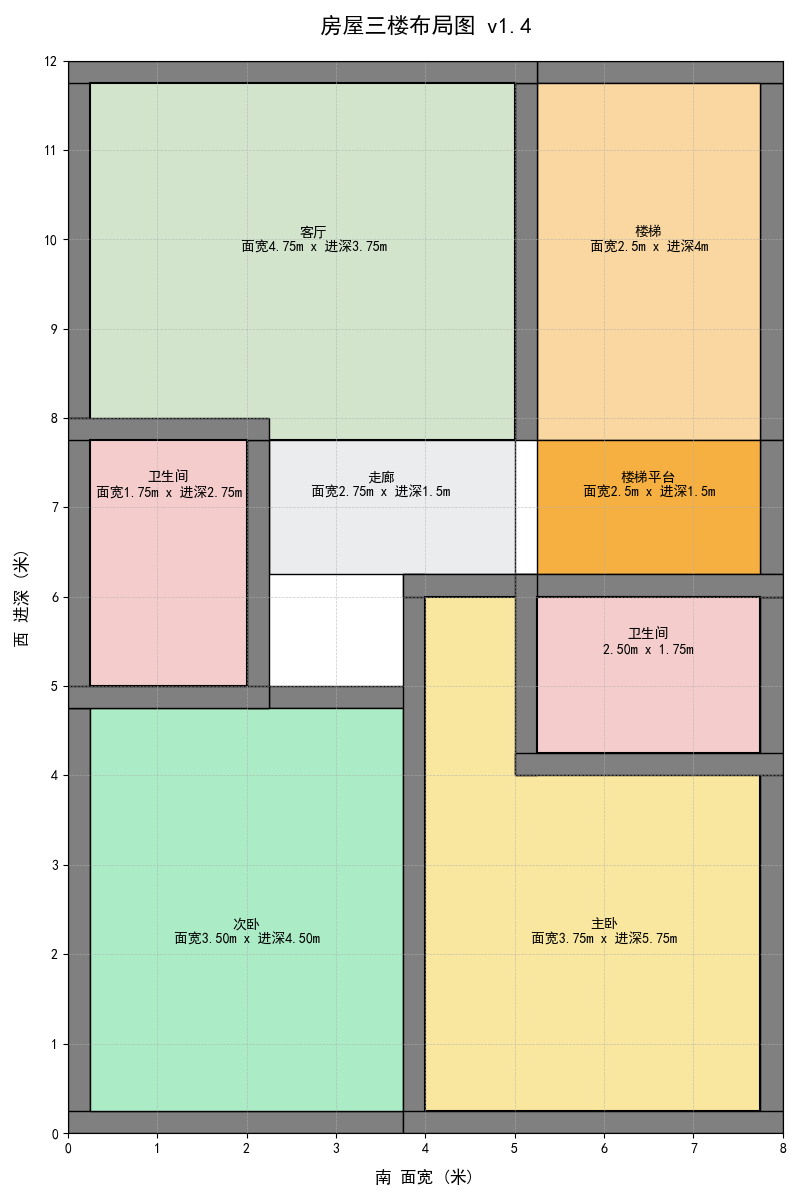
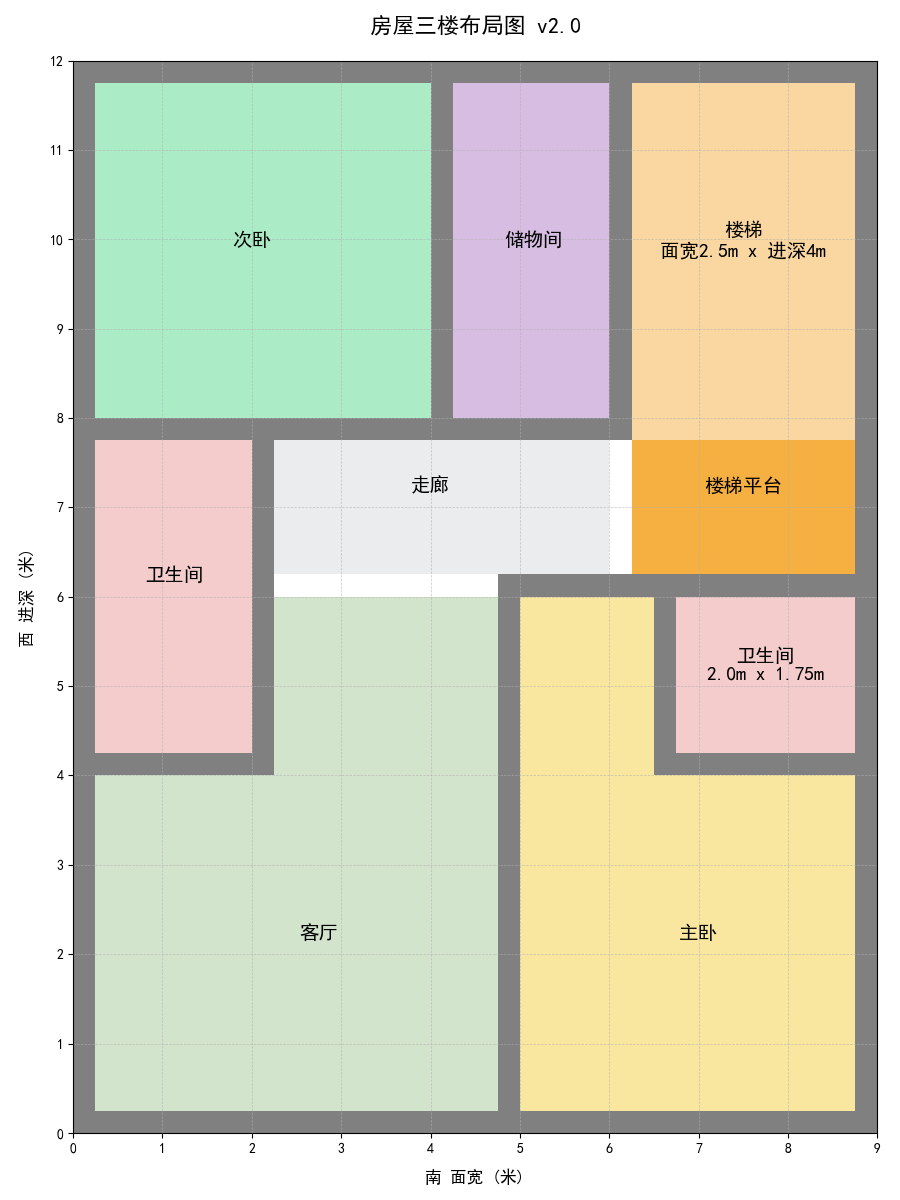
perf(floor): update

diff --git a/floor_3_5nd.py b/floor_3_5nd.py
@@ -18,100 +18,75 @@ plt.rcParams['font.sans-serif'] = ['SimHei']
 plt.rcParams['axes.unicode_minus'] = False
 
 # 创建画布
-fig, ax = plt.subplots(figsize=(8, 12))
-ax.set_xlim(0, 8)  # 面宽8米
+fig, ax = plt.subplots(figsize=(9, 12))
+ax.set_xlim(0, 9)  # 面宽9米
 ax.set_ylim(0, 12)  # 进深12米
 ax.set_aspect('equal')  # 确保比例一致
 
 # 手动设置x轴和y轴的刻度间隔为1米
-ax.set_xticks(range(0, 9))  # x轴从0到8，每隔1米一个刻度
-ax.set_yticks(range(0, 13))  # y轴从0到12，每隔1米一个刻度
+ax.set_xticks(range(0, 10))  # x轴每隔1米一个刻度
+ax.set_yticks(range(0, 13))  # y轴每隔1米一个刻度
 
 # 添加标题和网格
 plt.title(FLOOR_3_5_TITLE, fontsize=16, fontweight='bold', pad=20)
 plt.grid(visible=True, which='both', linestyle='--', linewidth=0.5, alpha=0.7)
 
-# 绘制各个功能区并调整文字位置
+# ------------------------------------- 绘制各个功能区并调整文字位置
 
 # 楼梯：位于右侧最里面的区域
-draw_wall(ax, 5.5 - wall_thickness, 8 - wall_thickness, 2.5 + wall_thickness, 4 + wall_thickness,
+draw_wall(ax, 6.5 - wall_thickness, 8 - wall_thickness, 2.5 + wall_thickness, 4 + wall_thickness,
           exclude=['left', 'bottom'], adjacent=['left', 'bottom'])
 ax.add_patch(
-    patches.Rectangle((5.5 - wall_thickness, 8 - wall_thickness), 2.5, 4,
-                      facecolor=colors['楼梯'], edgecolor='black', label='楼梯'))
-# 文字水平居中
-ax.text(6.5, 10, "楼梯\n面宽2.5m x 进深4m", ha='center', va='center', fontsize=10, color='black')
+    patches.Rectangle((6.5 - wall_thickness, 8 - wall_thickness), 2.5, 4,
+                      facecolor=colors['楼梯'], label='楼梯'))
+ax.text(7.5, 10, "楼梯\n面宽2.5m", ha='center', va='center', fontsize=14)
 
-# 储物间（左侧）
-draw_wall(ax, 0, 8, 3, 4, adjacent=['bottom', 'right'])
-ax.add_patch(patches.Rectangle((wall_thickness, 8), 3 - wall_thickness, 4 - wall_thickness,
-                               facecolor=colors['储物间'], edgecolor='black', label='储物间'))
-# 文字水平居中
-ax.text(1.5, 10, f"储物间\n面宽{3 - wall_thickness:.2f}m x 进深{4 - wall_thickness:.2f}m",
-        ha='center', va='center', fontsize=10)
+# 储物间（楼梯左侧）
+draw_wall(ax, 4, 8 - wall_thickness, 1.75 + 2 * wall_thickness, 3.75 + 2 * wall_thickness)  # 排除底部墙壁
+ax.add_patch(patches.Rectangle((4 + wall_thickness, 8), 1.75, 3.75, facecolor=colors['储物间']))
+ax.text(5.15, 10, f"储物间", ha='center', va='center', fontsize=14)
 
-# 储物间（中间）
-draw_wall(ax, 3, 8, 2.5 - wall_thickness, 4, adjacent=['bottom'])
-ax.add_patch(
-    patches.Rectangle((3 + wall_thickness, 8), 2.5 - 3 * wall_thickness, 4 - wall_thickness,
-                      facecolor=colors['储物间'], edgecolor='black', label='储物间'))
-# 文字水平居中
-ax.text(4.15, 10, f"储物间\n面宽{2.5 - 3 * wall_thickness:.2f}m x 进深{4 - wall_thickness:.2f}m",
-        ha='center', va='center', fontsize=10)
+# 次卧（储物间旁边）
+draw_wall(ax, 0, 8 - wall_thickness, 3.75 + 2 * wall_thickness, 3.75 + 2 * wall_thickness, exclude=['right'])  # 排除底部墙壁
+ax.add_patch(patches.Rectangle((wall_thickness, 8), 3.75, 3.75, facecolor=colors['储物间']))
+ax.text(2, 10, f"储物间", ha='center', va='center', fontsize=14)
 
 # 楼梯平台：宽2.5米，长1.5米
-draw_wall(ax, 5, 6, 3, 1.5 + wall_thickness * 2,
-          exclude=['top', 'left', 'bottom'], adjacent=['top', 'left'])
+draw_wall(ax, 6, 6, 3, 1.5 + wall_thickness * 2, exclude=['top', 'left', 'bottom'])
 ax.add_patch(
-    patches.Rectangle((5 + wall_thickness, 6 + wall_thickness), 3 - 2 * wall_thickness, 1.5,
-                      facecolor=colors['楼梯平台'], edgecolor='black', label='楼梯平台'))
-ax.text(6.5, 7.25, f"楼梯平台\n面宽{3 - 2 * wall_thickness}m x 进深1.5m", ha='center', va='center', fontsize=10)
+    patches.Rectangle((6 + wall_thickness, 6 + wall_thickness), 3 - 2 * wall_thickness, 1.5,
+                      facecolor=colors['楼梯平台'], label='楼梯平台'))
+ax.text(7.5, 7.25, f"楼梯平台", ha='center', va='center', fontsize=14)
 
-# 走廊：剩余部分
-draw_wall(ax, 2 - wall_thickness, 6.5 - 2 * wall_thickness, 3 + 2 * wall_thickness, 1.5 + 2 * wall_thickness,
-          exclude=['right', 'bottom'], adjacent=['right', 'bottom'])
-ax.add_patch(patches.Rectangle((2, 6.5 - wall_thickness), 3, 1.5,
-                               facecolor=colors['走廊'], edgecolor='black'))
-# 文字水平居中
-ax.text(3.5, 7.25, f"走廊\n面宽{3}m x 进深1.5m",
-        ha='center', va='center', fontsize=10, color='black')
-
-# 客厅卫生间：位于次卧上方
-draw_wall(ax, 0, 6, 2, 2)
-ax.add_patch(
-    patches.Rectangle((wall_thickness, 6 + wall_thickness), 2 - 2 * wall_thickness, 2 - 2 * wall_thickness,
-                      facecolor=colors['卫生间'], edgecolor='black', linewidth=1.5))
-ax.text(1, 7.25, f"卫生间\n面宽{1.5}m x 进深{1.5}m",
-        ha='center', va='center', fontsize=10, color='black', fontweight='bold')
-
-# 储物间（右下角）
-draw_wall(ax, 4 - wall_thickness, 4, 4 + wall_thickness, 2 + wall_thickness,
-          exclude=['top', 'left', 'bottom'], )  # 排除顶部墙壁
-draw_wall(ax, 4 - wall_thickness, 0, 4 + wall_thickness, 4 + wall_thickness)  # 排除顶部墙壁
-ax.add_patch(
-    patches.Rectangle((4, wall_thickness), 4 - wall_thickness, 4 - wall_thickness,
-                      facecolor=colors['储物间'], edgecolor='black', linewidth=1.5))
-ax.text(6, 3.25, f"储物间\n面宽{4 - wall_thickness:.2f}m x 进深{4 - wall_thickness:.2f}m",
-        ha='center', va='center', fontsize=10, color='black', fontweight='bold')
+# 其他走廊：剩余部分
+ax.add_patch(patches.Rectangle((2 + wall_thickness, 6.5 - wall_thickness), 3.75, 1.5,
+                               facecolor=colors['走廊']))
+ax.text(4, 7.25, f"走廊", ha='center', va='center', fontsize=14)
 
 # 阳台：位于最前面的区域
-draw_wall(ax, 0, 0, 4, 6.5 - wall_thickness)  # 排除底部墙壁（大门区域）
-ax.add_patch(
-    patches.Rectangle((wall_thickness, wall_thickness), 4 - 2 * wall_thickness, 6.5 - wall_thickness * 3,
-                      facecolor=colors['阳台'], edgecolor='black', label='阳台'))
-# 文字水平居中
-ax.text(2, 3.25, f"阳台\n面宽{4 - 2 * wall_thickness:.2f}m x 进深{6.5 - wall_thickness * 3:.2f}m",
-        ha='center', va='center', fontsize=10)
+draw_wall(ax, 0, 0, 4.75 + wall_thickness, 5.75 + 2 * wall_thickness, exclude=['top', 'right'])  # 排除顶部墙壁
+ax.add_patch(patches.Rectangle((wall_thickness, wall_thickness), 4.75, 5.75, facecolor=colors['阳台'], label='阳台'))
+ax.text(2.5, 3.5, f"阳台", ha='center', va='center', fontsize=14)
+
+draw_wall(ax, 2, 0, 1 + wall_thickness, 5.75 + 2 * wall_thickness, exclude=['left', 'right'])  # 排除顶部墙壁
+
+# 卫生间
+draw_wall(ax, 0, 6, 1.75 + 2 * wall_thickness, 1.5 + 2 * wall_thickness, adjacent=['right'])
+ax.add_patch(patches.Rectangle((wall_thickness, 6 + wall_thickness), 1.75, 1.5, facecolor=colors['卫生间']))
+ax.text(1.13, 7.25, f"卫生间", ha='center', va='center', fontsize=14)
+
+# 储物间（右下角）
+draw_wall(ax, 5 - wall_thickness, 0, 3.75 + 2 * wall_thickness, 3.75 + 2 * wall_thickness)  # 排除顶部墙壁
+ax.add_patch(patches.Rectangle((5, wall_thickness), 3.75, 3.75, facecolor=colors['储物间']))
+ax.text(7, 2.25, f"储物间", ha='center', va='center', fontsize=14)
+
+draw_wall(ax, 6, 4, 2.5 + 2 * wall_thickness, 1.75 + 2 * wall_thickness, exclude=['top', 'bottom', 'left'])
+draw_wall(ax, 5 - wall_thickness, 4, 1 + 2 * wall_thickness, 1.75 + 2 * wall_thickness,
+          exclude=['top', 'bottom', 'right'])
 
 # 显示坐标轴标签
 plt.xlabel("南 面宽 (米)", fontsize=12, labelpad=10)
 plt.ylabel("西 进深 (米)", fontsize=12, labelpad=10)
-
-# # 添加图例
-# handles, labels = [], []
-# for region, color in colors.items():
-#     handles.append(patches.Patch(color=color, label=region))
-# plt.legend(handles=handles, loc='upper left', bbox_to_anchor=(1.05, 1), fontsize=10)
 
 # 显示图形
 plt.tight_layout()

diff --git a/floor_2nd.py b/floor_2nd.py
@@ -18,81 +18,70 @@ plt.rcParams['font.sans-serif'] = ['SimHei']
 plt.rcParams['axes.unicode_minus'] = False
 
 # 创建画布
-fig, ax = plt.subplots(figsize=(8, 12))
-ax.set_xlim(0, 8)  # 面宽8米
+fig, ax = plt.subplots(figsize=(9, 12))
+ax.set_xlim(0, 9)  # 面宽9米
 ax.set_ylim(0, 12)  # 进深12米
 ax.set_aspect('equal')  # 确保比例一致
 
 # 手动设置x轴和y轴的刻度间隔为1米
-ax.set_xticks(range(0, 9))  # x轴从0到8，每隔1米一个刻度
-ax.set_yticks(range(0, 13))  # y轴从0到12，每隔1米一个刻度
+ax.set_xticks(range(0, 10))  # x轴每隔1米一个刻度
+ax.set_yticks(range(0, 13))  # y轴每隔1米一个刻度
 
 # 添加标题和网格
 plt.title(FLOOR_2_TITLE, fontsize=16, fontweight='bold', pad=20)
 plt.grid(visible=True, which='both', linestyle='--', linewidth=0.5, alpha=0.7)
 
-# 绘制各个功能区并调整文字位置
+# ------------------------------------- 绘制各个功能区并调整文字位置
 
 # 楼梯：位于右侧最里面的区域
-draw_wall(ax, 5.5 - wall_thickness, 8 - wall_thickness, 2.5 + wall_thickness, 4 + wall_thickness,
+draw_wall(ax, 6.5 - wall_thickness, 8 - wall_thickness, 2.5 + wall_thickness, 4 + wall_thickness,
           exclude=['left', 'bottom'], adjacent=['left', 'bottom'])
 ax.add_patch(
-    patches.Rectangle((5.5 - wall_thickness, 8 - wall_thickness), 2.5, 4,
-                      facecolor=colors['楼梯'], edgecolor='black', label='楼梯'))
-ax.text(6.5, 10, "楼梯\n面宽2.5m x 进深4m", ha='center', va='center', fontsize=10, color='black')
+    patches.Rectangle((6.5 - wall_thickness, 8 - wall_thickness), 2.5, 4,
+                      facecolor=colors['楼梯'], label='楼梯'))
+ax.text(7.5, 10, "楼梯\n面宽2.5m x 进深4m", ha='center', va='center', fontsize=14)
 
-# 客厅（楼梯左侧）
-draw_wall(ax, 0, 8 - wall_thickness, 5.5 - wall_thickness, 4 + wall_thickness, exclude=['bottom'])  # 排除底部墙壁
-ax.add_patch(patches.Rectangle((wall_thickness, 8 - wall_thickness), 5.5 - 3 * wall_thickness, 4,
-                               facecolor=colors['客厅'], edgecolor='black', linewidth=1.5))
-ax.text(2.75, 10, f"客厅\n面宽{5.5 - 3 * wall_thickness}m x 进深{4 - wall_thickness}m",
-        ha='center', va='center', fontsize=10, color='black', fontweight='bold')
+# 储物间（楼梯左侧）
+draw_wall(ax, 4, 8 - wall_thickness, 1.75 + 2 * wall_thickness, 3.75 + 2 * wall_thickness)  # 排除底部墙壁
+ax.add_patch(patches.Rectangle((4 + wall_thickness, 8), 1.75, 3.75, facecolor=colors['储物间']))
+ax.text(5.15, 10, f"储物间", ha='center', va='center', fontsize=14)
+
+# 次卧（储物间旁边）
+draw_wall(ax, 0, 8 - wall_thickness, 3.75 + 2 * wall_thickness, 3.75 + 2 * wall_thickness, exclude=['right'])  # 排除底部墙壁
+ax.add_patch(patches.Rectangle((wall_thickness, 8), 3.75, 3.75, facecolor=colors['次卧']))
+ax.text(2, 10, f"次卧", ha='center', va='center', fontsize=14)
 
 # 楼梯平台：宽2.5米，长1.5米
-draw_wall(ax, 5, 6, 3, 1.5 + wall_thickness * 2,
-          exclude=['top', 'left'], adjacent=['top', 'left'])
+draw_wall(ax, 6, 6, 3, 1.5 + wall_thickness * 2, exclude=['top', 'left'], adjacent=['top', 'left'])
 ax.add_patch(
-    patches.Rectangle((5 + wall_thickness, 6 + wall_thickness), 3 - 2 * wall_thickness, 1.5,
-                      facecolor=colors['楼梯平台'], edgecolor='black', label='楼梯平台'))
-ax.text(6.5, 7.25, f"楼梯平台\n面宽{3 - 2 * wall_thickness}m x 进深1.5m", ha='center', va='center', fontsize=10)
+    patches.Rectangle((6 + wall_thickness, 6 + wall_thickness), 3 - 2 * wall_thickness, 1.5,
+                      facecolor=colors['楼梯平台'], label='楼梯平台'))
+ax.text(7.5, 7.25, f"楼梯平台", ha='center', va='center', fontsize=14)
 
 # 其他走廊：剩余部分
-ax.add_patch(patches.Rectangle((2 + wall_thickness, 6.5 - wall_thickness), 2.75, 1.5,
-                               facecolor=colors['走廊'], edgecolor='black'))
-ax.text(3.5, 7.25, f"走廊\n面宽{2.75}m x 进深1.5m",
-        ha='center', va='center', fontsize=10, color='black')
+ax.add_patch(patches.Rectangle((2 + wall_thickness, 6.5 - wall_thickness), 3.75, 1.5,
+                               facecolor=colors['走廊']))
+ax.text(4, 7.25, f"走廊", ha='center', va='center', fontsize=14)
 
-# 次卧：位于最前面的区域
-draw_wall(ax, 0, 0, 4, 5, exclude=['right'])  # 排除顶部墙壁
-ax.add_patch(
-    patches.Rectangle((wall_thickness, wall_thickness), 4 - 2 * wall_thickness, 5 - 2 * wall_thickness,
-                      facecolor=colors['次卧'], edgecolor='black', label='客厅'))
-ax.text(2, 2.25, f"次卧\n面宽{4 - 2 * wall_thickness:.2f}m x 进深{5 - 2 * wall_thickness :.2f}m",
-        ha='center', va='center', fontsize=10, color='black', fontweight='bold')
+# 客厅：位于最前面的区域
+draw_wall(ax, 0, 0, 4.75 + wall_thickness, 5.75 + 2 * wall_thickness, exclude=['top', 'right'])  # 排除顶部墙壁
+ax.add_patch(patches.Rectangle((wall_thickness, wall_thickness), 4.75, 5.75, facecolor=colors['客厅'], label='客厅'))
+ax.text(2.75, 2.25, f"客厅", ha='center', va='center', fontsize=14)
 
 # 客厅卫生间：位于次卧上方
-draw_wall(ax, 0, 5 - wall_thickness, 2 + wall_thickness, 3 + wall_thickness)
-ax.add_patch(
-    patches.Rectangle((wall_thickness, 5), 2 - wall_thickness, 3 - wall_thickness,
-                      facecolor=colors['卫生间'], edgecolor='black', linewidth=1.5))
-ax.text(1.13, 7.25, f"卫生间\n面宽{2 - wall_thickness:.2f}m x 进深{3 - wall_thickness}m",
-        ha='center', va='center', fontsize=10, color='black', fontweight='bold')
+draw_wall(ax, 0, 4, 1.75 + 2 * wall_thickness, 3.5 + 2 * wall_thickness)
+ax.add_patch(patches.Rectangle((wall_thickness, 4 + wall_thickness), 1.75, 3.5, facecolor=colors['卫生间']))
+ax.text(1.13, 6.25, f"卫生间", ha='center', va='center', fontsize=14)
 
 # 主卧（右下角）
-draw_wall(ax, 4 - wall_thickness, 0, 4 + wall_thickness, 6 + wall_thickness)  # 排除顶部墙壁
-ax.add_patch(
-    patches.Rectangle((4, wall_thickness), 4 - wall_thickness, 6 - wall_thickness,
-                      facecolor=colors['主卧'], edgecolor='black', linewidth=1.5))
-ax.text(6, 2.25, f"主卧\n面宽{4 - wall_thickness:.2f}m x 进深{6 - wall_thickness:.2f}m",
-        ha='center', va='center', fontsize=10, color='black', fontweight='bold')
+draw_wall(ax, 5 - wall_thickness, 0, 3.75 + 2 * wall_thickness, 5.75 + 2 * wall_thickness)  # 排除顶部墙壁
+ax.add_patch(patches.Rectangle((5, wall_thickness), 3.75, 5.75, facecolor=colors['主卧']))
+ax.text(7, 2.25, f"主卧", ha='center', va='center', fontsize=14)
 
 # 卫生间（主卧里面）
-draw_wall(ax, 5, 4, 3, 1.75 + 2 * wall_thickness, exclude=['top', 'right'])  # 排除左侧墙壁
-ax.add_patch(
-    patches.Rectangle((5 + wall_thickness, 4 + wall_thickness), 3 - 2 * wall_thickness, 1.75,
-                      facecolor=colors['卫生间'], edgecolor='black', linewidth=1.5))
-ax.text(6.5, 5.5, f"卫生间\n{3 - 2 * wall_thickness:.2f}m x {1.75}m",
-        ha='center', va='center', fontsize=10, color='black', fontweight='bold')
+draw_wall(ax, 6.5, 4, 2 + 2 * wall_thickness, 1.75 + 2 * wall_thickness, exclude=['top', 'right'])  # 排除左侧墙壁
+ax.add_patch(patches.Rectangle((6.5 + wall_thickness, 4 + wall_thickness), 2, 1.75, facecolor=colors['卫生间']))
+ax.text(7.75, 5.25, f"卫生间\n2.0m x 1.75m", ha='center', va='center', fontsize=14)
 
 # 显示坐标轴标签
 plt.xlabel("南 面宽 (米)", fontsize=12, labelpad=10)

diff --git a/floor_3nd.py b/floor_3nd.py
@@ -18,81 +18,70 @@ plt.rcParams['font.sans-serif'] = ['SimHei']
 plt.rcParams['axes.unicode_minus'] = False
 
 # 创建画布
-fig, ax = plt.subplots(figsize=(8, 12))
-ax.set_xlim(0, 8)  # 面宽8米
+fig, ax = plt.subplots(figsize=(9, 12))
+ax.set_xlim(0, 9)  # 面宽9米
 ax.set_ylim(0, 12)  # 进深12米
 ax.set_aspect('equal')  # 确保比例一致
 
 # 手动设置x轴和y轴的刻度间隔为1米
-ax.set_xticks(range(0, 9))  # x轴从0到8，每隔1米一个刻度
-ax.set_yticks(range(0, 13))  # y轴从0到12，每隔1米一个刻度
+ax.set_xticks(range(0, 10))  # x轴每隔1米一个刻度
+ax.set_yticks(range(0, 13))  # y轴每隔1米一个刻度
 
 # 添加标题和网格
 plt.title(FLOOR_3_TITLE, fontsize=16, fontweight='bold', pad=20)
 plt.grid(visible=True, which='both', linestyle='--', linewidth=0.5, alpha=0.7)
 
-# 绘制各个功能区并调整文字位置
+# ------------------------------------- 绘制各个功能区并调整文字位置
 
 # 楼梯：位于右侧最里面的区域
-draw_wall(ax, 5.5 - wall_thickness, 8 - wall_thickness, 2.5 + wall_thickness, 4 + wall_thickness,
+draw_wall(ax, 6.5 - wall_thickness, 8 - wall_thickness, 2.5 + wall_thickness, 4 + wall_thickness,
           exclude=['left', 'bottom'], adjacent=['left', 'bottom'])
 ax.add_patch(
-    patches.Rectangle((5.5 - wall_thickness, 8 - wall_thickness), 2.5, 4,
-                      facecolor=colors['楼梯'], edgecolor='black', label='楼梯'))
-ax.text(6.5, 10, "楼梯\n面宽2.5m x 进深4m", ha='center', va='center', fontsize=10, color='black')
+    patches.Rectangle((6.5 - wall_thickness, 8 - wall_thickness), 2.5, 4,
+                      facecolor=colors['楼梯'], label='楼梯'))
+ax.text(7.5, 10, "楼梯\n面宽2.5m x 进深4m", ha='center', va='center', fontsize=14)
 
-# 客厅（楼梯左侧）
-draw_wall(ax, 0, 8 - wall_thickness, 5.5 - wall_thickness, 4 + wall_thickness, exclude=['bottom'])  # 排除底部墙壁
-ax.add_patch(patches.Rectangle((wall_thickness, 8 - wall_thickness), 5.5 - 3 * wall_thickness, 4,
-                               facecolor=colors['客厅'], edgecolor='black', linewidth=1.5))
-ax.text(2.75, 10, f"客厅\n面宽{5.5 - 3 * wall_thickness}m x 进深{4 - wall_thickness}m",
-        ha='center', va='center', fontsize=10, color='black', fontweight='bold')
+# 储物间（楼梯左侧）
+draw_wall(ax, 4, 8 - wall_thickness, 1.75 + 2 * wall_thickness, 3.75 + 2 * wall_thickness)  # 排除底部墙壁
+ax.add_patch(patches.Rectangle((4 + wall_thickness, 8), 1.75, 3.75, facecolor=colors['储物间']))
+ax.text(5.15, 10, f"储物间", ha='center', va='center', fontsize=14)
+
+# 次卧（储物间旁边）
+draw_wall(ax, 0, 8 - wall_thickness, 3.75 + 2 * wall_thickness, 3.75 + 2 * wall_thickness, exclude=['right'])  # 排除底部墙壁
+ax.add_patch(patches.Rectangle((wall_thickness, 8), 3.75, 3.75, facecolor=colors['次卧']))
+ax.text(2, 10, f"次卧", ha='center', va='center', fontsize=14)
 
 # 楼梯平台：宽2.5米，长1.5米
-draw_wall(ax, 5, 6, 3, 1.5 + wall_thickness * 2,
-          exclude=['top', 'left'], adjacent=['top', 'left'])
+draw_wall(ax, 6, 6, 3, 1.5 + wall_thickness * 2, exclude=['top', 'left'], adjacent=['top', 'left'])
 ax.add_patch(
-    patches.Rectangle((5 + wall_thickness, 6 + wall_thickness), 3 - 2 * wall_thickness, 1.5,
-                      facecolor=colors['楼梯平台'], edgecolor='black', label='楼梯平台'))
-ax.text(6.5, 7.25, f"楼梯平台\n面宽{3 - 2 * wall_thickness}m x 进深1.5m", ha='center', va='center', fontsize=10)
+    patches.Rectangle((6 + wall_thickness, 6 + wall_thickness), 3 - 2 * wall_thickness, 1.5,
+                      facecolor=colors['楼梯平台'], label='楼梯平台'))
+ax.text(7.5, 7.25, f"楼梯平台", ha='center', va='center', fontsize=14)
 
 # 其他走廊：剩余部分
-ax.add_patch(patches.Rectangle((2 + wall_thickness, 6.5 - wall_thickness), 2.75, 1.5,
-                               facecolor=colors['走廊'], edgecolor='black'))
-ax.text(3.5, 7.25, f"走廊\n面宽{2.75}m x 进深1.5m",
-        ha='center', va='center', fontsize=10, color='black')
+ax.add_patch(patches.Rectangle((2 + wall_thickness, 6.5 - wall_thickness), 3.75, 1.5,
+                               facecolor=colors['走廊']))
+ax.text(4, 7.25, f"走廊", ha='center', va='center', fontsize=14)
 
-# 次卧：位于最前面的区域
-draw_wall(ax, 0, 0, 4, 5, exclude=['right'])  # 排除顶部墙壁
-ax.add_patch(
-    patches.Rectangle((wall_thickness, wall_thickness), 4 - 2 * wall_thickness, 5 - 2 * wall_thickness,
-                      facecolor=colors['次卧'], edgecolor='black', label='客厅'))
-ax.text(2, 2.25, f"次卧\n面宽{4 - 2 * wall_thickness:.2f}m x 进深{5 - 2 * wall_thickness :.2f}m",
-        ha='center', va='center', fontsize=10, color='black', fontweight='bold')
+# 客厅：位于最前面的区域
+draw_wall(ax, 0, 0, 4.75 + wall_thickness, 5.75 + 2 * wall_thickness, exclude=['top', 'right'])  # 排除顶部墙壁
+ax.add_patch(patches.Rectangle((wall_thickness, wall_thickness), 4.75, 5.75, facecolor=colors['客厅'], label='客厅'))
+ax.text(2.75, 2.25, f"客厅", ha='center', va='center', fontsize=14)
 
 # 客厅卫生间：位于次卧上方
-draw_wall(ax, 0, 5 - wall_thickness, 2 + wall_thickness, 3 + wall_thickness)
-ax.add_patch(
-    patches.Rectangle((wall_thickness, 5), 2 - wall_thickness, 3 - wall_thickness,
-                      facecolor=colors['卫生间'], edgecolor='black', linewidth=1.5))
-ax.text(1.13, 7.25, f"卫生间\n面宽{2 - wall_thickness:.2f}m x 进深{3 - wall_thickness}m",
-        ha='center', va='center', fontsize=10, color='black', fontweight='bold')
+draw_wall(ax, 0, 4, 1.75 + 2 * wall_thickness, 3.5 + 2 * wall_thickness)
+ax.add_patch(patches.Rectangle((wall_thickness, 4 + wall_thickness), 1.75, 3.5, facecolor=colors['卫生间']))
+ax.text(1.13, 6.25, f"卫生间", ha='center', va='center', fontsize=14)
 
 # 主卧（右下角）
-draw_wall(ax, 4 - wall_thickness, 0, 4 + wall_thickness, 6 + wall_thickness)  # 排除顶部墙壁
-ax.add_patch(
-    patches.Rectangle((4, wall_thickness), 4 - wall_thickness, 6 - wall_thickness,
-                      facecolor=colors['主卧'], edgecolor='black', linewidth=1.5))
-ax.text(6, 2.25, f"主卧\n面宽{4 - wall_thickness:.2f}m x 进深{6 - wall_thickness:.2f}m",
-        ha='center', va='center', fontsize=10, color='black', fontweight='bold')
+draw_wall(ax, 5 - wall_thickness, 0, 3.75 + 2 * wall_thickness, 5.75 + 2 * wall_thickness)  # 排除顶部墙壁
+ax.add_patch(patches.Rectangle((5, wall_thickness), 3.75, 5.75, facecolor=colors['主卧']))
+ax.text(7, 2.25, f"主卧", ha='center', va='center', fontsize=14)
 
 # 卫生间（主卧里面）
-draw_wall(ax, 5, 4, 3, 1.75 + 2 * wall_thickness, exclude=['top', 'right'])  # 排除左侧墙壁
-ax.add_patch(
-    patches.Rectangle((5 + wall_thickness, 4 + wall_thickness), 3 - 2 * wall_thickness, 1.75,
-                      facecolor=colors['卫生间'], edgecolor='black', linewidth=1.5))
-ax.text(6.5, 5.5, f"卫生间\n{3 - 2 * wall_thickness:.2f}m x {1.75}m",
-        ha='center', va='center', fontsize=10, color='black', fontweight='bold')
+draw_wall(ax, 6.5, 4, 2 + 2 * wall_thickness, 1.75 + 2 * wall_thickness, exclude=['top', 'right'])  # 排除左侧墙壁
+ax.add_patch(patches.Rectangle((6.5 + wall_thickness, 4 + wall_thickness), 2, 1.75, facecolor=colors['卫生间']))
+ax.text(7.75, 5.25, f"卫生间\n2.0m x 1.75m", ha='center', va='center', fontsize=14)
 
 # 显示坐标轴标签
 plt.xlabel("南 面宽 (米)", fontsize=12, labelpad=10)
